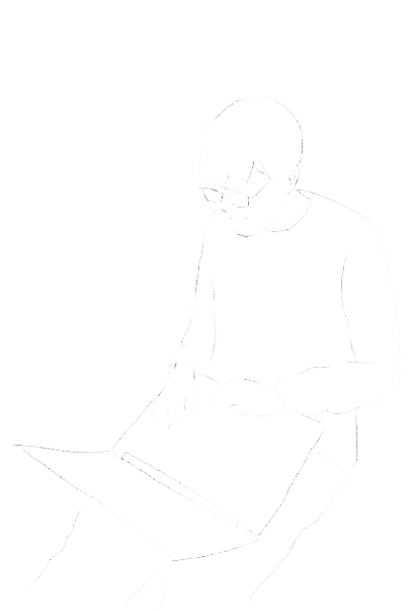
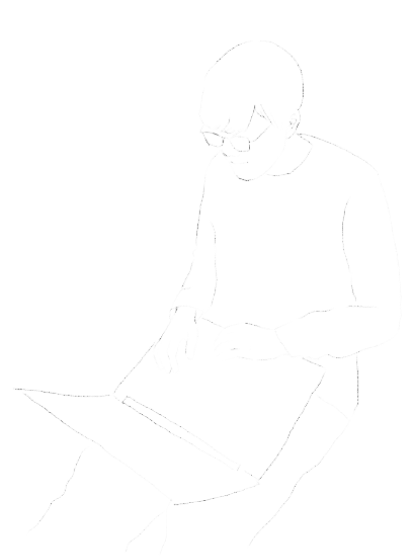
change img depeding on color mode

diff --git a/style.css b/style.css
@@ -25,10 +25,9 @@ body {
   background-color: var(--background);
   color: var(--text-color);
   transition: background-color 500ms ease-in-out, color 200ms ease;
-  max-width: 1200px;
+  max-width: 960px;
   width: 100%;
   margin: 0 auto;
-  position: relative;
 }
 
 @media (prefers-color-scheme: dark) {
@@ -78,18 +77,6 @@ body {
   margin: 1rem;
 }
 
-main {
-  /* scroll-snap-type: mandatory; */
-}
-
-main * + * {
-  margin-top: 2rem;
-}
-
-section {
-  scroll-snap-align: start;
-}
-
 h1 {
   font-size: 3.5rem;
 }
@@ -134,7 +121,7 @@ img {
   width: 100%;
 }
 
-/********** Header **********/
+/******************** Header ********************/
 
 header {
   display: flex;
@@ -160,16 +147,14 @@ nav li {
   margin-left: 2rem;
 }
 
-/********** Main **********/
+/******************** Main ********************/
 
 main {
-  padding-bottom: 20rem;
+  padding-bottom: 15rem;
 }
 
-.content {
-  scroll-snap-type: mandatory;
-  scroll-snap-points-y: repeat(300px);
-  scroll-snap-type: y mandatory;
+main * + * {
+  margin-top: 2rem;
 }
 
 #about {
@@ -186,17 +171,16 @@ main {
   flex: 1;
 }
 
+.about-img img {
+  width: auto;
+}
+
 .card-button {
   color: var(--button-color);
   background-color: var(--accent-color);
 }
 
-/********** Footer **********/
-footer {
-  position: absolute;
-  bottom: 0;
-  width: 100%;
-}
+/******************** Footer ********************/
 
 .social-link {
   text-decoration: none;

diff --git a/script.js b/script.js
@@ -83,7 +83,12 @@ const setButtonLabelAndStatus = (currentSetting) => {
 /**
  * Set hero banner image depending on color mode
  */
-const setBannerImage = (currentSetting) => {};
+const setBannerImage = (currentSetting) => {
+  let img = document.getElementById("heroImg");
+  currentSetting === "dark"
+    ? img.setAttribute("src", "./img/dark-profile-picture.png")
+    : img.setAttribute("src", "./img/light-profile-picture.png");
+};
 
 /**
  * Clicking the button runs the apply setting method which grabs its parameter

diff --git a/index.html b/index.html
@@ -63,7 +63,8 @@
             </div>
             <div class="about-img">
               <img
-                src="./img/light-profile-picture.png"
+                id="heroImg"
+                src="./img/light-profile-picture2.png"
                 alt="Drawn outline of me on my laptop by my wonderful partner Cristina"
               />
             </div>
